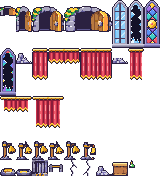
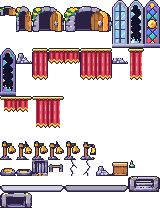
Props asks 2, ask 1: the undercroft's stone plate and floor grate cut from the approved plates
Why: Step 3's stone plate and its grate were drawn as code stand-ins; the owner's rule is that every
look comes from an approved Drive plate where one exists. The renderer (room-parts.ts) already asks for
part:undercroft:stone-plate (+:down) and part:undercroft:grate (+:open); this delivers them in group
`parts`, appended on a new row so all 28 earlier parts looks keep their rectangles and pixels (compared).

- stone-plate 64x16: P05 secrets bottom row's plain stone slab, its cut-off left end closed by mirroring,
  middle repeated at source resolution, majority-shrunk to 64x7 (stone/castle/night ramps; with metal it
  came out near-white). :down is the same cut one ramp step darker; the renderer does the sinking.
- grate 32x16: P04 interactables' riveted vent (shut) and riveted hatch round a dark shaft (open).
  No plate shows a side-on floor grate: noted for the missing list.
- The bare-patch doubt (8120d92): looked at; the whole passage floor is evenly bare, so nothing
  points at the pocket. Not changed. Notes in tools/art/props/README.md, "Second builder".
- preview.py draws a part's own plate/gate look; loopshots.py `undercroft` writes the 320x180 scene.

Ran: make.py (deterministic, nothing else changed), selfcheck.py, npm run build, npm run check (green,
before and after rebasing onto a3a446c), npm run e2e twice: run 1 failed plates-stone/-held/-pocket
(page B missed the cellar doorway, the flake logged in docs/plan/step-3.md) and h1; run 2 all seven
[…]

diff --git a/tools/art/props/drive.py b/tools/art/props/drive.py
@@ -315,3 +315,51 @@ def level_pie(n):  # noqa: F811 (replaces the cut above: the plate's rings run o
                     c = col('gold', 2) if dx + dy < 0 else col('gold', 1)
             put(im, x, y, c)
     return im
+
+
+# ---- Step 3's undercroft plate and grate (handoff-prompts/props-asks-2.md, ask 1). DRAFT: boxes and sizes are
+# first passes. src/client/draw/room-parts.ts draws `part:undercroft:stone-plate` (and `:down`) bottom-centred on
+# the plate's 4x1 tiles, translated down by how far the load has sunk it and clipped to those tiles; so `:down` is
+# the same slab, shaded, not drawn pre-lowered. The grate fills its 2x1 floor tiles.
+STONEPAL = ramps('stone', 'castle', 'night')
+GRATEPAL = ramps('stone', 'castle', 'metal', 'gold', 'night', 'purple')
+
+
+def stone_plate(down=False):
+    """P05 secrets-doors-breakables, bottom row, the plain stone slab (the plate cuts it off at its left edge).
+    Its right end is mirrored to close the left, and a 2 px column of its middle is repeated between, at the
+    plate's own resolution, so the 64 x 7 shrink is a majority over real source pixels, not a stretch of a tiny
+    cut. Down: the slab's lit top faces one ramp step darker, the weight pressing it into shadow."""
+    import srcimport
+    from PIL import ImageOps
+    from srcimport import sheet
+    src = sheet('secrets').crop((0, 424, 56, 474))
+    right, mid = src.crop((22, 0, 56, 50)), src.crop((20, 0, 22, 50))
+    W = 64 * 46 // 7
+    comp = Image.new('RGBA', (W, 50), P05PALE + (255,))
+    comp.paste(ImageOps.mirror(right), (0, 0))
+    for x in range(34, W - 34, 2):
+        comp.paste(mid, (x, 0))
+    comp.paste(right, (W - 34, 0))
+    srcimport._cache['_stone-plate'] = comp
+    slab = grab('_stone-plate', (0, 0, W, 50), 0, STONEPAL, key=P05PALE, size=(64, 7))
+    if down:
+        from px import col
+        darker = {}
+        for ramp in ('stone', 'castle'):
+            for i in range(1, 4):
+                darker[col(ramp, i)] = col(ramp, i - 1)
+        for y in range(slab.height):
+            for x in range(slab.width):
+                c = slab.getpixel((x, y))
+                if c in darker:
+                    slab.putpixel((x, y), darker[c])
+    return fit(slab, 64, 16)
+
+
+def floor_grate(open_=False):
+    """Shut: P04 interactables, row 2's riveted vent (three bars in a frame). Open: P04 row 3's riveted hatch,
+    the same frame round a dark shaft. Both squashed to the grate's two floor tiles (32 x 16)."""
+    if open_:
+        return grab('interact', (20, 640, 190, 770), 0, GRATEPAL, size=(32, 16))
+    return grab('interact', (1270, 415, 1430, 550), 0, GRATEPAL, size=(32, 16))

diff --git a/tools/art/props/preview.py b/tools/art/props/preview.py
@@ -71,7 +71,8 @@ def add_light(im, pic, x0, y0):
                 im.putpixel((x0 + x, y0 + y), (min(255, R_ + r * a // 255), min(255, G_ + g * a // 255), min(255, B_ + b * a // 255), A_))
 
 
-def room_scene(rid, R, sheets, looks, all_rooms, glows=True):
+def room_scene(rid, R, sheets, looks, all_rooms, glows=True, pressed=False):
+    """pressed: plates drawn down (their own look sunk 4 px, as room-parts.ts does) and gates open."""
     r = all_rooms[rid]
     rows = r['rows']; W, H = len(rows[0]) * 16, len(rows) * 16
     sky, wall, body, lip = THEME[rid]
@@ -143,7 +144,13 @@ def room_scene(rid, R, sheets, looks, all_rooms, glows=True):
     for p in r.get('parts') or []:
         tx, ty, w, h = rect(r, 'part', p['id'])
         own = look('part:%s:%s' % (rid, p['id']))
-        if p['kind'] == 'plate':
+        if p['kind'] in ('plate', 'gate') and own is not None:
+            # a part's own look (props-asks-2): bottom-centred on its tiles; a pressed plate sinks 4 px, clipped
+            pic = look('part:%s:%s:%s' % (rid, p['id'], 'down' if p['kind'] == 'plate' else 'open')) if pressed else own
+            sink = 4 if pressed and p['kind'] == 'plate' else 0
+            pic = pic.crop((0, 0, pic.width, pic.height - sink))
+            im.alpha_composite(pic, (tx * 16 + (w * 16 - pic.width) // 2, (ty + h) * 16 - pic.height))
+        elif p['kind'] == 'plate':
             im.alpha_composite(look('plate-up'), (tx * 16, ty * 16))
         elif p['kind'] == 'gate':
             for j in range(h):

diff --git a/tools/art/props/loopshots.py b/tools/art/props/loopshots.py
@@ -199,8 +199,27 @@ def weapons():
     return scene
 
 
+
+def undercroft():
+    """props-asks-2, ask 1: the undercroft's passage as a 320x180 camera (columns 4-23, the room's last 180 px,
+    the pocket under the floor included) with the room's own decor, plate up and grate shut; below it the same
+    view with the plate down (sunk 4 px, as room-parts.ts draws it) and the grate open. Ground is preview.py's
+    plain stand-in, not the ground lane's tiles."""
+    import make, preview
+    from place import place_all
+    from sizes import rooms
+    lk, sh, rs = make.looks_sheets(), make.decor_sheets(), rooms()
+    R = place_all()['undercroft']
+    out = Image.new('RGBA', (320, 360))
+    for i, pressed in enumerate((False, True)):
+        im = preview.room_scene('undercroft', R, sh, lk, rs, pressed=pressed)
+        out.paste(im.crop((64, im.height - 180, 384, im.height)), (0, i * 180))
+    return out
+
+
+
 SCENES = {'weapons': weapons, 'rides': rides, 'powers': powers, 'treasure': treasure, 'hall': hall, 'asks': asks, 'heist': heist,
-          'cage': cage}
+          'cage': cage, 'undercroft': undercroft}
 
 if __name__ == '__main__':
     os.makedirs(OUT, exist_ok=True)

diff --git a/tools/art/props/make.py b/tools/art/props/make.py
@@ -95,6 +95,10 @@ def looks_sheets():
     s.add('gate-closed', dv.gate(False)); s.add('gate-open', dv.gate(True))
     s.add('crack-1', lp.crack(0)); s.add('crack-2', lp.crack(1)); s.add('rubble', dv.rubble())
     s.add('shop-counter', dv.shop_counter()); s.add('shop-goods', dv.shop_goods())
+    # Step 3's undercroft plate and grate (props-asks-2, ask 1): appended, so every look above keeps its rectangle
+    s.newrow()
+    s.add('part:undercroft:stone-plate', dv.stone_plate()); s.add('part:undercroft:stone-plate:down', dv.stone_plate(True))
+    s.add('part:undercroft:grate', dv.floor_grate()); s.add('part:undercroft:grate:open', dv.floor_grate(True))
     out = [('parts', 'props/parts.png', s)]
     # ---- round 3: the horn on the camp's post (src/client/draw/outpost.ts draws it bottom-centre over 2x3 tiles)
     s = Sheet(160)

diff --git a/tools/art/props/README.md b/tools/art/props/README.md
@@ -237,6 +237,34 @@ the plate's own blue arc kept; impact = the plate's starburst; broken = every pi
   the weapon itself); a closed parasol; an unlit torch lying down (state 3 is lit; states 1-2 are unlit).
 - **Not verified in the game:** nothing draws a weapon yet.
 
+## Second builder (`handoff-prompts/props-asks-2.md`)
+
+**Ask 1, the undercroft's plate and grate (for Step 3's puzzles).** Group `parts`, appended on a new row of
+`parts.png`, so every earlier look keeps its rectangle and pixels (compared, all 28 identical). Ids are the ones
+`src/client/draw/room-parts.ts` already asks for:
+
+- `part:undercroft:stone-plate` (64x16): P05 secrets-doors-breakables, bottom row, the plain stone slab. The plate
+  cuts that slab off at its left edge, so `drive.stone_plate()` mirrors its right end to close the left and repeats
+  a 2 px column of its middle between them at the plate's own resolution, then shrinks by majority to 64x7, bottom
+  of the 16 px cell. Snapped to stone, castle and night only: with the metal ramp its top came out near-white, the
+  brightest thing in the passage. `DRAFT:` the joinery (mirror and repeat) is this lane's, not the plate's.
+- `part:undercroft:stone-plate:down`: the same cut, its lit tones one ramp step darker. Not pre-lowered: the renderer
+  translates the look down by the load's sink and clips it to the plate's tiles.
+- `part:undercroft:grate` (32x16): P04 chibi-interactables row 2, the riveted vent (three bars in a frame), squashed
+  2.4x to the two floor tiles. `part:undercroft:grate:open`: P04 row 3, the riveted hatch round a dark shaft, the same
+  frame. Neither plate shows a floor grate seen from the side; a true one is wanted (for the Drive's missing list).
+- **Decor off a part's tiles:** already held by `selfcheck.py` (back and front layers overlap no part); nothing moved.
+- **The bare-patch doubt (8120d92), looked at:** `loops-undercroft-4x.png` (the passage at 320x180, plate up and grate
+  shut over plate down and grate open) and the whole room. The items that went were three barrels (columns 8, 12,
+  18) and the lantern posts at 9 and 19, all on the passage floor; nothing else on that floor survived either, so the
+  whole lower floor from the vault wall to the east doors is now bare of standing decor, evenly. There is no bare
+  patch among furnished floor to point at the pocket: what a player sees is a plain floor with torches every six
+  columns, the grate and the plate. Not changed. A barrel stands in the pocket itself (column 15, row 15), placed
+  by the same hash; the pocket's cavity shows anyway, so it adds nothing. If the floor reads too empty once the
+  ground lane's tiles are in, re-seed the barrel hash in `place.py` and look again.
+- `preview.py` draws a plate's or gate's own look when one exists (`pressed=True`: down and open), and `loopshots.py
+  undercroft` writes the scene. `shots.mjs ... round3` adds `undercroft-grate` and `undercroft-on-plate`.
+
 ## Deviations from the contract
 
 - `ui-use`'s `src` is the whole 48×24 picture (normal then pressed), with no `frames`: that is how

diff --git a/docs/mechanisms/asset-coverage.md b/docs/mechanisms/asset-coverage.md
@@ -182,6 +182,8 @@ Cuts live in tools/art/props/drive.py, round3.py and looks_parts.py.
 | `look:bell` | uses-approved | `P04/chibi-pixel-interactables-sprite-sheet.png` bell idle (1090,595)-(1250,780), ringing (1268,585)-(1440,780), broken (98,850)-(240,1015). | - |
 | `look:plate` | uses-approved | `P04/chibi-pixel-interactables-sprite-sheet.png` plate up (28,230)-(172,322), down (210,235)-(358,322). | - |
 | `look:gate` | uses-approved | `P04/chibi-pixel-interactables-sprite-sheet.png` bar gate closed (1072,172)-(1236,318), open (1265,175)-(1432,318). | - |
+| `look:part:undercroft:stone-plate` (+`:down`) | uses-approved | `P05/p05-secrets-doors-breakables-source.png` bottom row, the plain stone slab (0,424)-(56,474); the plate cuts it off at the left, so its right end (22-56) is mirrored and a middle column repeated to 64x7 (drive.stone_plate()). `:down` is the same cut one ramp step darker. | props (second builder). |
+| `look:part:undercroft:grate` (+`:open`) | uses-approved (stand-in shape) | `P04/chibi-pixel-interactables-sprite-sheet.png` row 2 riveted vent (1270,415)-(1430,550) shut; row 3 riveted hatch (20,640)-(190,770) open; both squashed to 32x16 (drive.floor_grate()). No plate shows a floor grate from the side: wanted for the missing list. | props, when one lands. |
 | `look:crack` | approved-source-not-used | `P05/p05-secrets-doors-breakables-source.png` crack lines (454,189)-(536,254); `P07/vibrant-platformer-interactables-sprite-sheet.png` cracked stone (1090,655)-(1195,750); `P04/chibi-pixel-interactables-sprite-sheet.png` cracked block (557,640)-(700,771). Line only, thin, unhighlighted (INTENT). | look3-props, push 3 or round 4 (not in its brief): re-cut in looks_parts.py via srcimport.grab. |
 | `look:rubble` | uses-approved | `P07/vibrant-platformer-interactables-sprite-sheet.png` rubble pile (1222,650)-(1395,760). | - |
 | `look:shop-counter` | uses-approved | `P04/cantina-tavern-hub-tileset.png` counter panel (98,305)-(178,372). | - |
